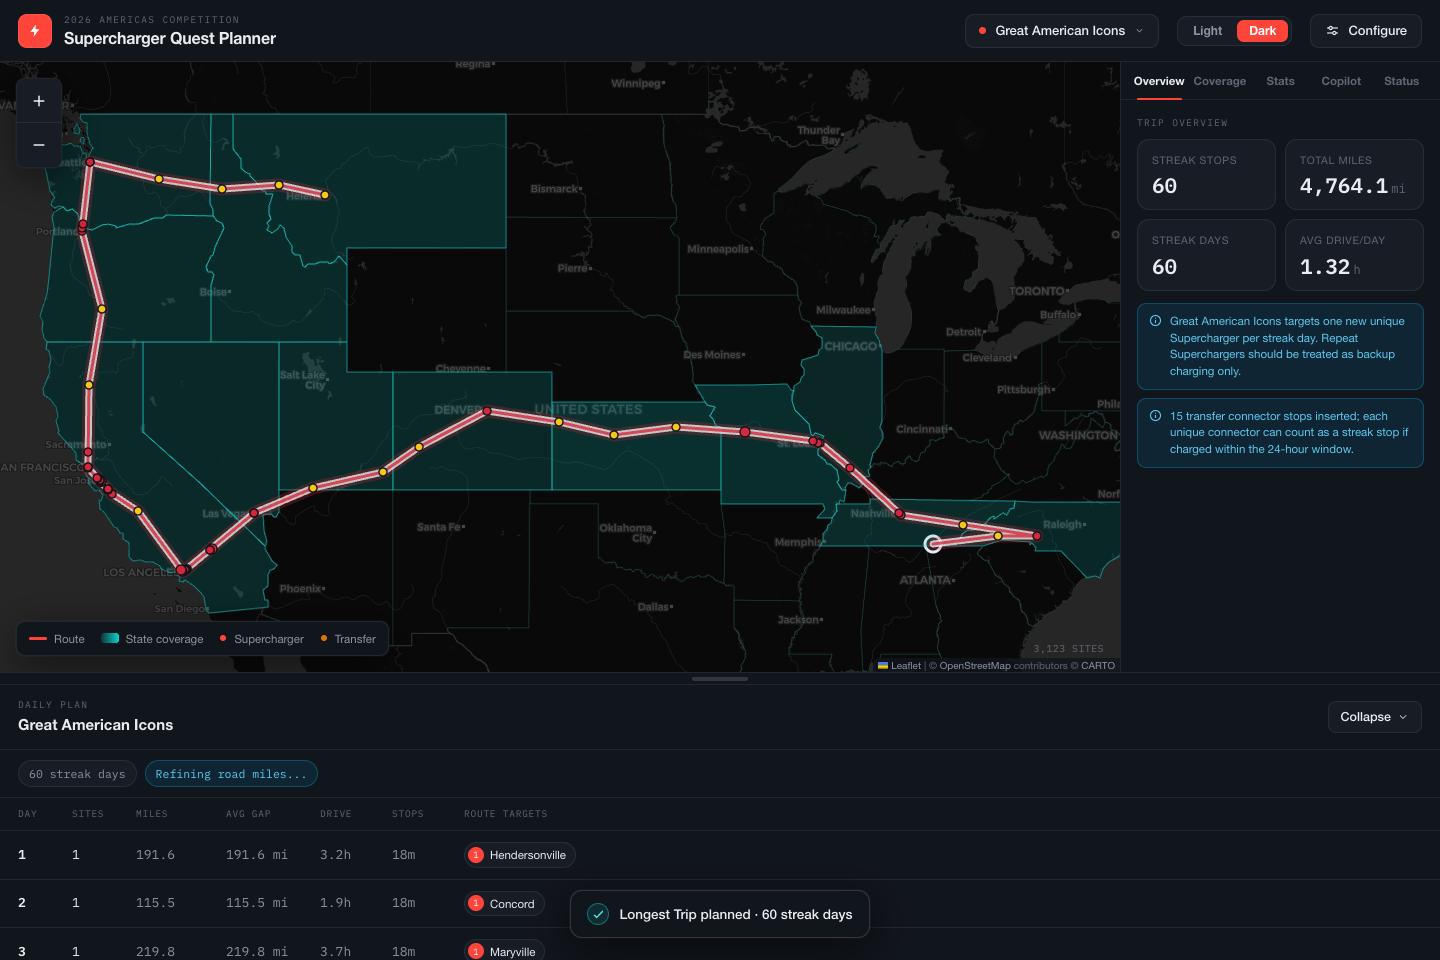
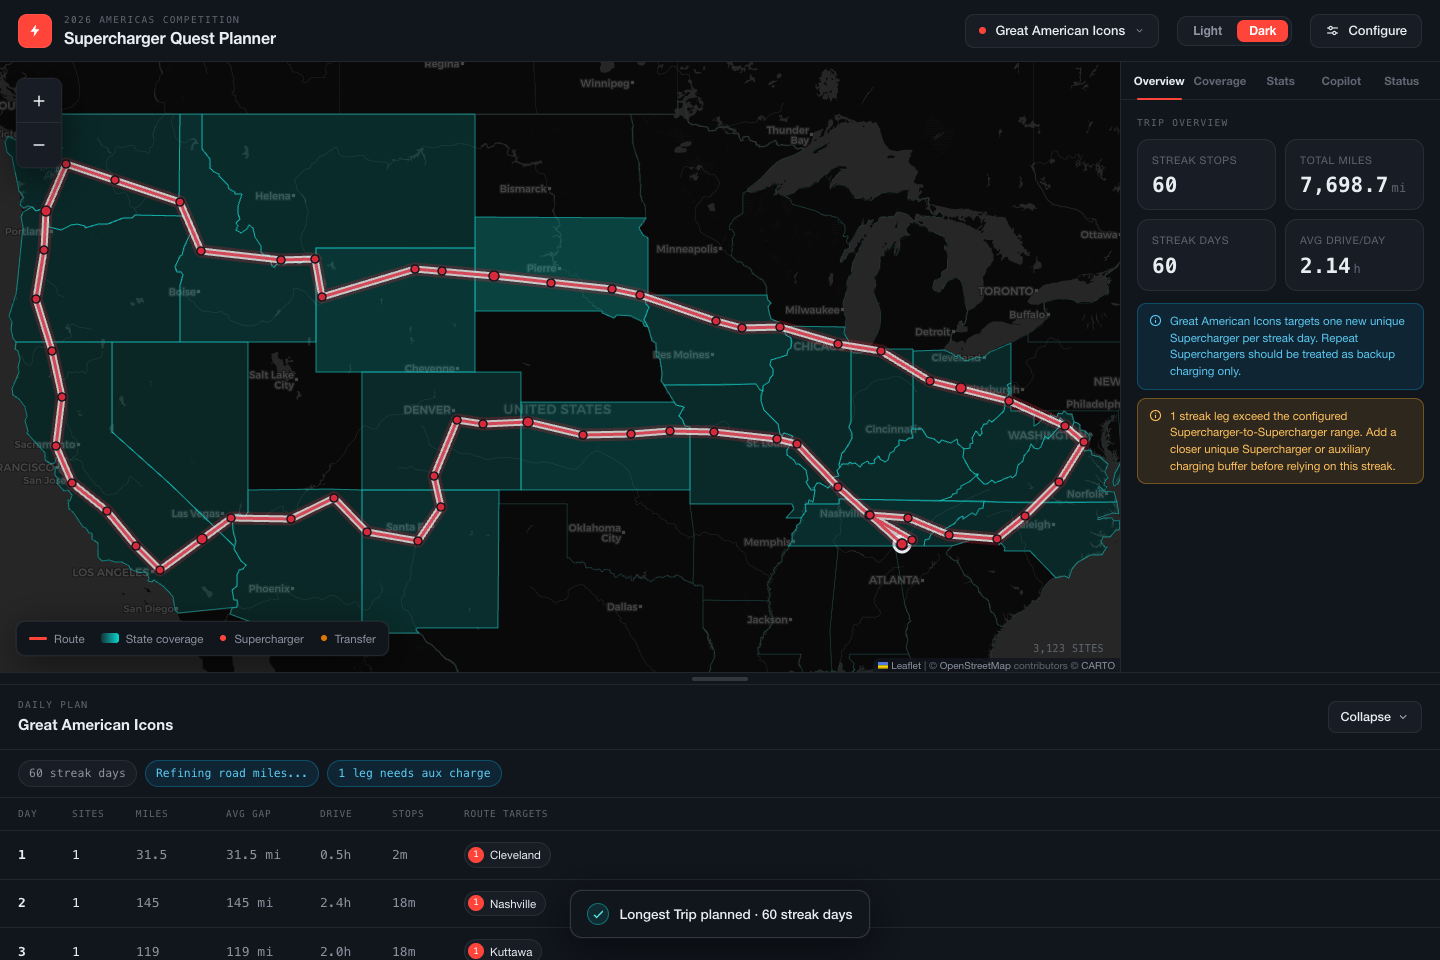
Close longest trip loops north first

diff --git a/src/domain/optimizer.ts b/src/domain/optimizer.ts
@@ -1,6 +1,7 @@
 import { defaultPlannerConfig, sanitizePlannerConfig } from './config'
 import {
   haversineMiles,
+  polylineLengthMiles,
   round,
   scoreAgainstPolyline,
 } from './geo'
@@ -760,7 +761,10 @@ function buildMostUniqueSiteVariants(
     },
   ].map((variant) => ({
     ...variant,
-    anchors: insertRequiredWaypoints(variant.anchors, requiredWaypoints),
+    anchors: insertRequiredWaypoints(
+      closeAnchorsToStart(variant.anchors, start),
+      requiredWaypoints,
+    ),
   }))
 
   if (customRouteWaypoints.length > 0) {
@@ -784,6 +788,57 @@ function buildMostUniqueSiteVariants(
   }
 
   return variants
+}
+
+function coldWeatherScore(point: Coordinate) {
+  let score = point.lat
+
+  if (point.lat >= 39) score += 16
+  if (point.lat >= 44) score += 8
+  if (point.lat >= 35 && point.lon <= -100) score += 6
+  if (point.lat >= 38 && point.lon <= -90 && point.lon >= -105) score += 4
+
+  return score
+}
+
+function weatherFirstClosedAnchors(anchors: Coordinate[], start: Coordinate) {
+  const body = anchors.filter(
+    (anchor, index) =>
+      index > 0 && !(anchor.lat === start.lat && anchor.lon === start.lon),
+  )
+
+  if (body.length === 0) return [start]
+
+  const sequences = [body, body.slice().reverse()]
+  let best = body
+  let bestScore = Number.NEGATIVE_INFINITY
+
+  sequences.forEach((sequence) => {
+    for (let index = 0; index < sequence.length; index += 1) {
+      const rotated = [...sequence.slice(index), ...sequence.slice(0, index)]
+      const earlyWeatherScore = rotated
+        .slice(0, Math.min(4, rotated.length))
+        .reduce(
+          (sum, anchor, anchorIndex) =>
+            sum + coldWeatherScore(anchor) / (anchorIndex + 1),
+          0,
+        )
+      const first = rotated[0]
+      const last = rotated.at(-1)!
+      const firstNorthBonus = first.lat > start.lat ? 400 : -400
+      const returnPenalty = haversineMiles(last, start) * 0.45
+      const openingPenalty = haversineMiles(start, first) * 0.04
+      const score =
+        earlyWeatherScore + firstNorthBonus - returnPenalty - openingPenalty
+
+      if (score > bestScore) {
+        bestScore = score
+        best = rotated
+      }
+    }
+  })
+
+  return closeAnchorsToStart([start, ...best], start)
 }
 
 function buildLongestTripVariants(
@@ -1308,7 +1363,10 @@ function buildLongestTripVariants(
     },
   ].map((variant) => ({
     ...variant,
-    anchors: insertRequiredWaypoints(variant.anchors, requiredWaypoints),
+    anchors: insertRequiredWaypoints(
+      weatherFirstClosedAnchors(variant.anchors, start),
+      requiredWaypoints,
+    ),
   }))
 
   if (customRouteWaypoints.length > 0) {
@@ -1319,12 +1377,13 @@ function buildLongestTripVariants(
     variants.push({
       id: 'custom-longest-trip',
       name: 'Custom Longest Trip',
-      strategy: `A custom streak corridor through ${customRouteWaypoints.map((waypoint) => waypoint.label).join(' -> ')}.`,
+      strategy: `A custom streak corridor through ${customRouteWaypoints.map((waypoint) => waypoint.label).join(' -> ')} before returning to the start.`,
       color: '#7c3aed',
       corridorMiles: 150,
       anchors: [
         start,
         ...customRouteWaypoints.map((waypoint) => waypoint.position),
+        start,
       ],
       forcedWaypoints: customForcedWaypoints,
     })
@@ -1338,6 +1397,7 @@ function chooseStationsForVariant(
   stations: Station[],
   targetStations: number,
   requiredWaypoints: RouteWaypoint[],
+  options: { spreadAlongCorridor?: boolean } = {},
 ) {
   const target = Math.min(targetStations, stations.length)
   let corridorMiles = variant.corridorMiles
@@ -1374,6 +1434,13 @@ function chooseStationsForVariant(
 
       selected = [...primary, ...filler]
     }
+  } else if (options.spreadAlongCorridor) {
+    selected = selectStationsAcrossCorridor(
+      scored.filter((station) => station.distanceMiles <= corridorMiles),
+      target,
+      variant.anchors,
+      variant.anchors[0],
+    )
   } else {
     selected = scored
       .filter((station) => station.distanceMiles <= corridorMiles)
@@ -1429,6 +1496,94 @@ function chooseStationsForVariant(
     ),
     waypointWarnings,
   }
+}
+
+function selectStationsAcrossCorridor(
+  candidates: ScoredStation[],
+  target: number,
+  anchors: Coordinate[],
+  start: Coordinate,
+) {
+  if (target <= 0) return []
+  if (candidates.length <= target) {
+    return candidates.sort(
+      (a, b) => a.order - b.order || a.distanceMiles - b.distanceMiles,
+    )
+  }
+
+  const routeLength = polylineLengthMiles(anchors)
+  const selected: ScoredStation[] = []
+  const selectedIds = new Set<string>()
+  const northFirst = nearestMatchingScoredStation(candidates, start, (station) =>
+    isNorthNotWest(station, start),
+  )
+
+  if (northFirst) {
+    selectedIds.add(northFirst.station.id)
+    selected.push({ ...northFirst, order: -1 })
+  }
+
+  const distributedTarget = target - selected.length
+  const reservedNorthFirst = selected.length > 0
+
+  for (let index = 0; index < distributedTarget; index += 1) {
+    const desiredOrder =
+      reservedNorthFirst
+        ? (routeLength * (index + 1)) / distributedTarget
+        : distributedTarget === 1
+        ? routeLength
+        : (routeLength * index) / (distributedTarget - 1)
+    const desiredPoint = coordinateAtPolylineOrder(anchors, desiredOrder)
+    let best: ScoredStation | undefined
+    let bestScore = Infinity
+
+    candidates.forEach((candidate) => {
+      if (selectedIds.has(candidate.station.id)) return
+
+      const score =
+        haversineMiles(candidate.station.position, desiredPoint) +
+        candidate.distanceMiles * 0.05
+      if (score < bestScore) {
+        bestScore = score
+        best = candidate
+      }
+    })
+
+    if (!best) break
+    selectedIds.add(best.station.id)
+    selected.push({ ...best, order: desiredOrder })
+  }
+
+  return selected.sort(
+    (a, b) => a.order - b.order || a.distanceMiles - b.distanceMiles,
+  )
+}
+
+function coordinateAtPolylineOrder(anchors: Coordinate[], targetOrder: number) {
+  if (anchors.length === 0) return { lat: 0, lon: 0 }
+  if (anchors.length === 1) return anchors[0]
+
+  let cumulative = 0
+  for (let index = 0; index < anchors.length - 1; index += 1) {
+    const start = anchors[index]
+    const end = anchors[index + 1]
+    const segmentLength = haversineMiles(start, end)
+
+    if (targetOrder <= cumulative + segmentLength || index === anchors.length - 2) {
+      const progress =
+        segmentLength > 0
+          ? Math.max(0, Math.min(1, (targetOrder - cumulative) / segmentLength))
+          : 0
+      return {
+        lat: start.lat + (end.lat - start.lat) * progress,
+        lon: start.lon + (end.lon - start.lon) * progress,
+      }
+    }
+
+    cumulative += segmentLength
+  }
+
+  return anchors.at(-1)!
 }
 
 function ensureNorthFirstCandidate(
@@ -2323,6 +2478,20 @@ function orderLongestTripStations(
   return ordered
 }
 
+function takeUniqueStations(stations: ScoredStation[], target: number) {
+  const used = new Set<string>()
+  const selected: ScoredStation[] = []
+
+  for (const station of stations) {
+    if (used.has(station.station.id)) continue
+    used.add(station.station.id)
+    selected.push(station)
+    if (selected.length >= target) break
+  }
+
+  return selected
+}
+
 function isNorthNotWest(station: Station, start: Coordinate) {
   return station.position.lat > start.lat && station.position.lon >= start.lon
 }
@@ -2335,6 +2504,13 @@ function buildDisplayRouteLine(
 ): Coordinate[] {
   const points = [start, ...orderedStations.map((s) => s.station.position)]
   return returnToStart ? [...points, start] : points
+}
+
+function closeAnchorsToStart(anchors: Coordinate[], start: Coordinate) {
+  const last = anchors.at(-1)
+  if (last && last.lat === start.lat && last.lon === start.lon) return anchors
+
+  return [...anchors, start]
 }
 
 function insertRequiredWaypoints(
@@ -2511,11 +2687,7 @@ export function refineRouteWithRoadLegs(
     warnings: plans.totals.warnings,
     advisories: plans.totals.advisories,
     longDays: plans.totals.longDays,
-    routeLine: buildDisplayRouteLine(
-      scored,
-      config.start,
-      config.plannerMode !== 'longest_trip',
-    ),
+    routeLine: buildDisplayRouteLine(scored, config.start),
   }
 }
 
@@ -2550,19 +2722,23 @@ export function optimizeRoutes(
       stations,
       routeTarget,
       variant.forcedWaypoints,
+      { spreadAlongCorridor: config.plannerMode === 'longest_trip' },
     )
     const stationOrder =
       config.plannerMode === 'longest_trip'
         ? orderLongestTripStations(stationChoice.selected, config.start)
         : optimizeStationOrder(stationChoice.selected, config.start)
-    const expandedStations = insertConnectorStops(
-      stationOrder,
-      stations,
-      config,
-    )
+    const expandedStations =
+      config.plannerMode === 'longest_trip'
+        ? stationOrder
+        : insertConnectorStops(
+            stationOrder,
+            stations,
+            config,
+          )
     const orderedStations =
       config.plannerMode === 'longest_trip'
-        ? expandedStations.slice(0, routeTarget)
+        ? takeUniqueStations(expandedStations, routeTarget)
         : expandedStations
     const plans = buildRouteDayPlans(orderedStations, variant.name, config)
     const totalDays = plans.days.length
@@ -2598,11 +2774,7 @@ export function optimizeRoutes(
       warnings: [...stationChoice.waypointWarnings, ...plans.totals.warnings],
       advisories: plans.totals.advisories,
       longDays: plans.totals.longDays,
-      routeLine: buildDisplayRouteLine(
-        orderedStations,
-        config.start,
-        config.plannerMode !== 'longest_trip',
-      ),
+      routeLine: buildDisplayRouteLine(orderedStations, config.start),
     }
   })
 

diff --git a/src/domain/optimizer.test.ts b/src/domain/optimizer.test.ts
@@ -90,7 +90,7 @@ describe('route optimizer', () => {
     expect(route.totalDays).toBe(12)
     expect(route.days.every((day) => day.visits.length === 1)).toBe(true)
     expect(route.routeLine[0]).toEqual(defaultPlannerConfig.start)
-    expect(route.routeLine.at(-1)).not.toEqual(defaultPlannerConfig.start)
+    expect(route.routeLine.at(-1)).toEqual(defaultPlannerConfig.start)
     result.routes.forEach((candidate) => {
       expect(candidate.visits[0]?.station.position.lat).toBeGreaterThan(
         defaultPlannerConfig.start.lat,
@@ -98,6 +98,8 @@ describe('route optimizer', () => {
       expect(candidate.routeLine[1]?.lat).toBeGreaterThan(
         defaultPlannerConfig.start.lat,
       )
+      expect(candidate.routeLine.at(-1)).toEqual(defaultPlannerConfig.start)
+      expect(candidate.totalDays).toBe(12)
     })
     expect(
       route.advisories.some((item) =>

diff --git a/server/index.ts b/server/index.ts
@@ -290,11 +290,10 @@ app.post('/api/refine-route', async (request, response) => {
     })
     const orderedStations = stations as unknown as Station[]
 
-    const returnToStart = sanitized.plannerMode !== 'longest_trip'
     const coordinates = [
       sanitized.start,
       ...orderedStations.map((station) => station.position),
-      ...(returnToStart ? [sanitized.start] : []),
+      sanitized.start,
     ]
     const road = await fetchRoadProvider(coordinates)
 